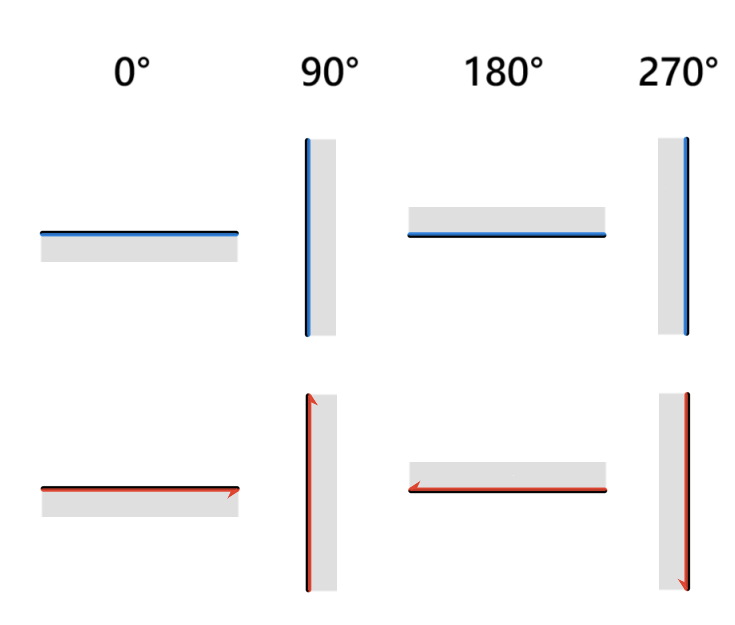
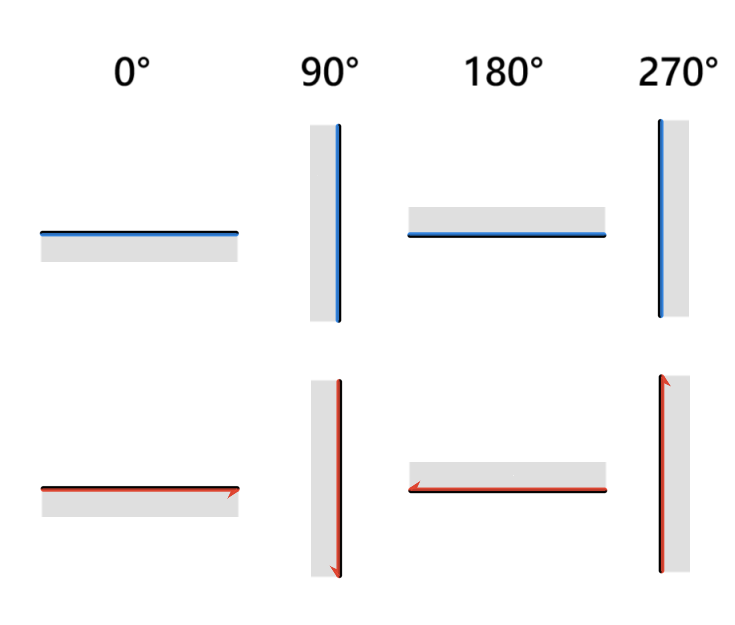
wip userscript

diff --git a/line-rider-esolang-interpreter.user.js b/line-rider-esolang-interpreter.user.js
@@ -3,7 +3,7 @@
 // @name         Line Rider Esolang Interpreter
 // @namespace    https://www.linerider.com/
 // @author       Malizma
-// @description  A Line Rider esolang real-time interpreter for linerider.com.
+// @description  
 // @version      0.1.0
 // @icon         https://www.linerider.com/favicon.ico
 
@@ -21,7 +21,40 @@
 // ==/UserScript==
 
 function main () {
-  console.log("Test");
+  console.info("[Esolang Interpreter] Running");
+
+  const instructArray = [];
+  const { store } = window;
+  const hitLines = new Set();
+
+  store.subscribe(() => {
+    const state = store.getState();
+
+    if (!state.player.running) {
+      if (hitLines.size > 0) {
+        hitLines = new Set();
+      }
+
+      return;
+    }
+
+    const track = state.simulator.committedEngine;
+    const frameData = track.getFrame(Math.floor(state.player.index));
+
+    if(frameData.involvedLineIds.length === 0) {
+      return;
+    }
+
+    const collidingLines = track.linesList.filter(
+      line => !hitLines.has(line.id) && frameData.involvedLineIds.includes(line.id)
+    )
+    hitLines.union(new Set(collidingLines.map(line => line.id)))
+    const instructions = collidingLines.map(
+      line => (Math.atan2(line.y2 - line.y1, line.x2 - line.x1) * 2 / Math.PI + 2 * line.flipped + 4) % 4 + 4 * line.type
+    ).filter(instruction => instruction === Math.round(instruction));
+
+    instructArray.push(...instructions.toArray());
+  });
 }
 
 if (window.store) {

diff --git a/README.md b/README.md
@@ -41,7 +41,7 @@ A subgenre of quirk dubbed "XY quirk" consists of tricks performed with strictly
 
 The following image shows each permutation of line that can be used under the restrictions of XY quirk. Each of these permutations will be mapped to a corresponding instruction. Red lines will be given two instructions that depend on the sign of the red line's multiplier, for reasons given later.
 
-![An image with four rotations listed at the top. The four rotations listed are 0 degrees, 90 degrees, 180 degrees, and 270 degrees. Below each rotation is a blue line with a gray box drawn along the line. For 0 degrees, the line is drawn horizontally and the gray box is below the line. For 90 degrees, the line is drawn vertically and the gray box is drawn to the right of the line. For 180 degrees, the line is drawn horizontally and the gray box is drawn above the line. For 270 degrees, the line is drawn vertically and the gray box is drawn to the left of the line. Below each blue line is a corresponding red line with a gray box drawn in the same orientation.](assets\line_rotation_visual.png "Line Rotations")
+![An image with four rotations listed at the top. The four rotations listed are 0 degrees, 90 degrees, 180 degrees, and 270 degrees. Below each rotation is a blue line with a gray box drawn along the line. For 0 degrees, the line is drawn horizontally and the gray box is below the line. For 90 degrees, the line is drawn vertically and the gray box is drawn to the left of the line. For 180 degrees, the line is drawn horizontally and the gray box is drawn above the line. For 270 degrees, the line is drawn vertically and the gray box is drawn to the right of the line. Below each blue line is a corresponding red line with a gray box drawn in the same orientation.](assets\line_rotation_visual.png "Line Rotations")
 
 ## Defining the instruction set
 
@@ -56,7 +56,7 @@ We define the instruction set from the 8 possible lines as follows.
   </tr>
   <tr>
     <td>0°</td>
-    <td>Clear the instruction buffer and start interpretation³</td>
+    <td>Move to register 0</td>
     <td>Move to the <b>next</b> Mth register</td>
     <td>Move to the <b>previous</b> Mth register</td>
   </tr>
@@ -68,15 +68,15 @@ We define the instruction set from the 8 possible lines as follows.
   </tr>
   <tr>
     <td>180°</td>
-    <td>Halt interpretation and evaluate the instruction buffer³</td>
-    <td>Take <b>input</b> into the next M registers, overriding them</td>
+    <td>Clear the input buffer if it's not already empty</td>
+    <td><b>Input</b> ASCII into the next M registers</td>
     <td><b>Output</b> the value of the next M registers</td>
   </tr>
   <tr>
     <td>270°</td>
-    <td>If the value at the current address is zero, jump to the start of the program, else continue execution</td>
-    <td>If the value at the current address is zero, relative jump M instructions <b>forward</b>, else continue execution</td>
-    <td>If the value at the current address is zero, relative jump M instructions <b>backward</b>, else continue execution</td>
+    <td>Stop the program</td>
+    <td>If the value at the current address is zero, relative jump M frames <b>forward</b>, else continue playing</td>
+    <td>If the value at the current address is zero, relative jump M frames <b>backward</b>, else continue playing</td>
   </tr>
 </table>
 
@@ -84,15 +84,23 @@ The instructions corresponding to red lines depend on the internal multiplier, M
 
 Blue line instructions have completely different functionality from their red line counterparts. This choice was made based on the fact that blue lines are, in essence, red lines with 0 multiplier, a value that would have no effect on any of the red line defined instructions.
 
-While this table is useful for defining the instruction set, we have not yet specified how it should be interpreted into a runnable program. To actually apply these instructions, an interpreter is introduced that checks for rider-line collisions while the track is running. The interpreter's job is to figure out which permutation of line is being hit on the current frame, translate that permutation into its corresponding instruction, and append the instruction to a buffer that keeps track of all of the instructions found so far.
+## Creating an interpreter
 
-The interpreter only begins adding to the buffer once the line corresponding to the start instruction is hit. Once the line corresponding to the halt instruction is hit, the interpreter stops adding instructions to the buffer, then evaluates the program in the buffer sequentially.
+In practice, these instructions have no functionality without an interpreter running in the background to determine which line corresponds to which instruction. For the sake of ease, this interpreter has been written for the web version of Line Rider, which has extensive mod support available and offers all of the capabilities needed to achieve this sort of functionality.
+
+This interpreter will keep track of the internal state of the program, which is a series of registers that can take values in the range of unsigned 8 bit integers. At the start, these registers are initialized with a value of zero. It also keeps track of an input buffer of unused characters.
+
+The input buffer is used to prevent input overflow and clamp to the requested amount of input. The first instance that input gets requested, only the first M characters fill in the registers, and the rest get stored into the input buffer. On the next request, the interpreter checks to see if there are any characters remaining in the input buffer, uses those up, then asks for more input if it is needed.
+
+The input accepts UTF8 characters and converts them to their corresponding character codes, and the output casts the values of the outputted registers back to UTF8 characters and outputs to the console.
+
+The index on the timeline is used as a sort of program counter. The design of Line Rider maintains that tracks run as linear experiences without jumping around the timeline. The design of the interpreter bends this rule to allow for program jumps. If the program jumps out of bounds (say, to a negative index), the program halts.
 
 ## Some example programs
 
 With the definitions and logistics out of the way, we can now "write" some functional programs using these instructions. Below are some examples of tracks that run programs commonly used for examples.
 
-[This track]() gets interpreted into a program that prints hello world.
+[This track]() gets interpreted into a program that prints "Hello, {name}" where name is an input string.
 
 *(Video here)*
 
@@ -110,8 +118,6 @@ I've written a userscript for the web version of Line Rider that acts as the int
 
 ## Footnotes
 
-¹ *This internal multiplier value takes the range of real numbers between -256 to 255, and was only a recent addition to more modern versions of Line Rider.*
+¹ *This internal multiplier value takes the range of real numbers between -256 to 255 and is a relatively recent addition to modern versions of Line Rider.*
 
-² *While not all of these tidbits are crucial to understanding the majority of the article, they are still an interesting example of seemingly regular systems.*
-
-³ *These are meta instructions that define when to start and stop the interpreter. They do not affect the actual program functionality itself.*
+² *While not all of these tidbits are crucial to understanding the majority of the article, they are still an interesting example of complex behavior underlying seemingly simple processes.*
